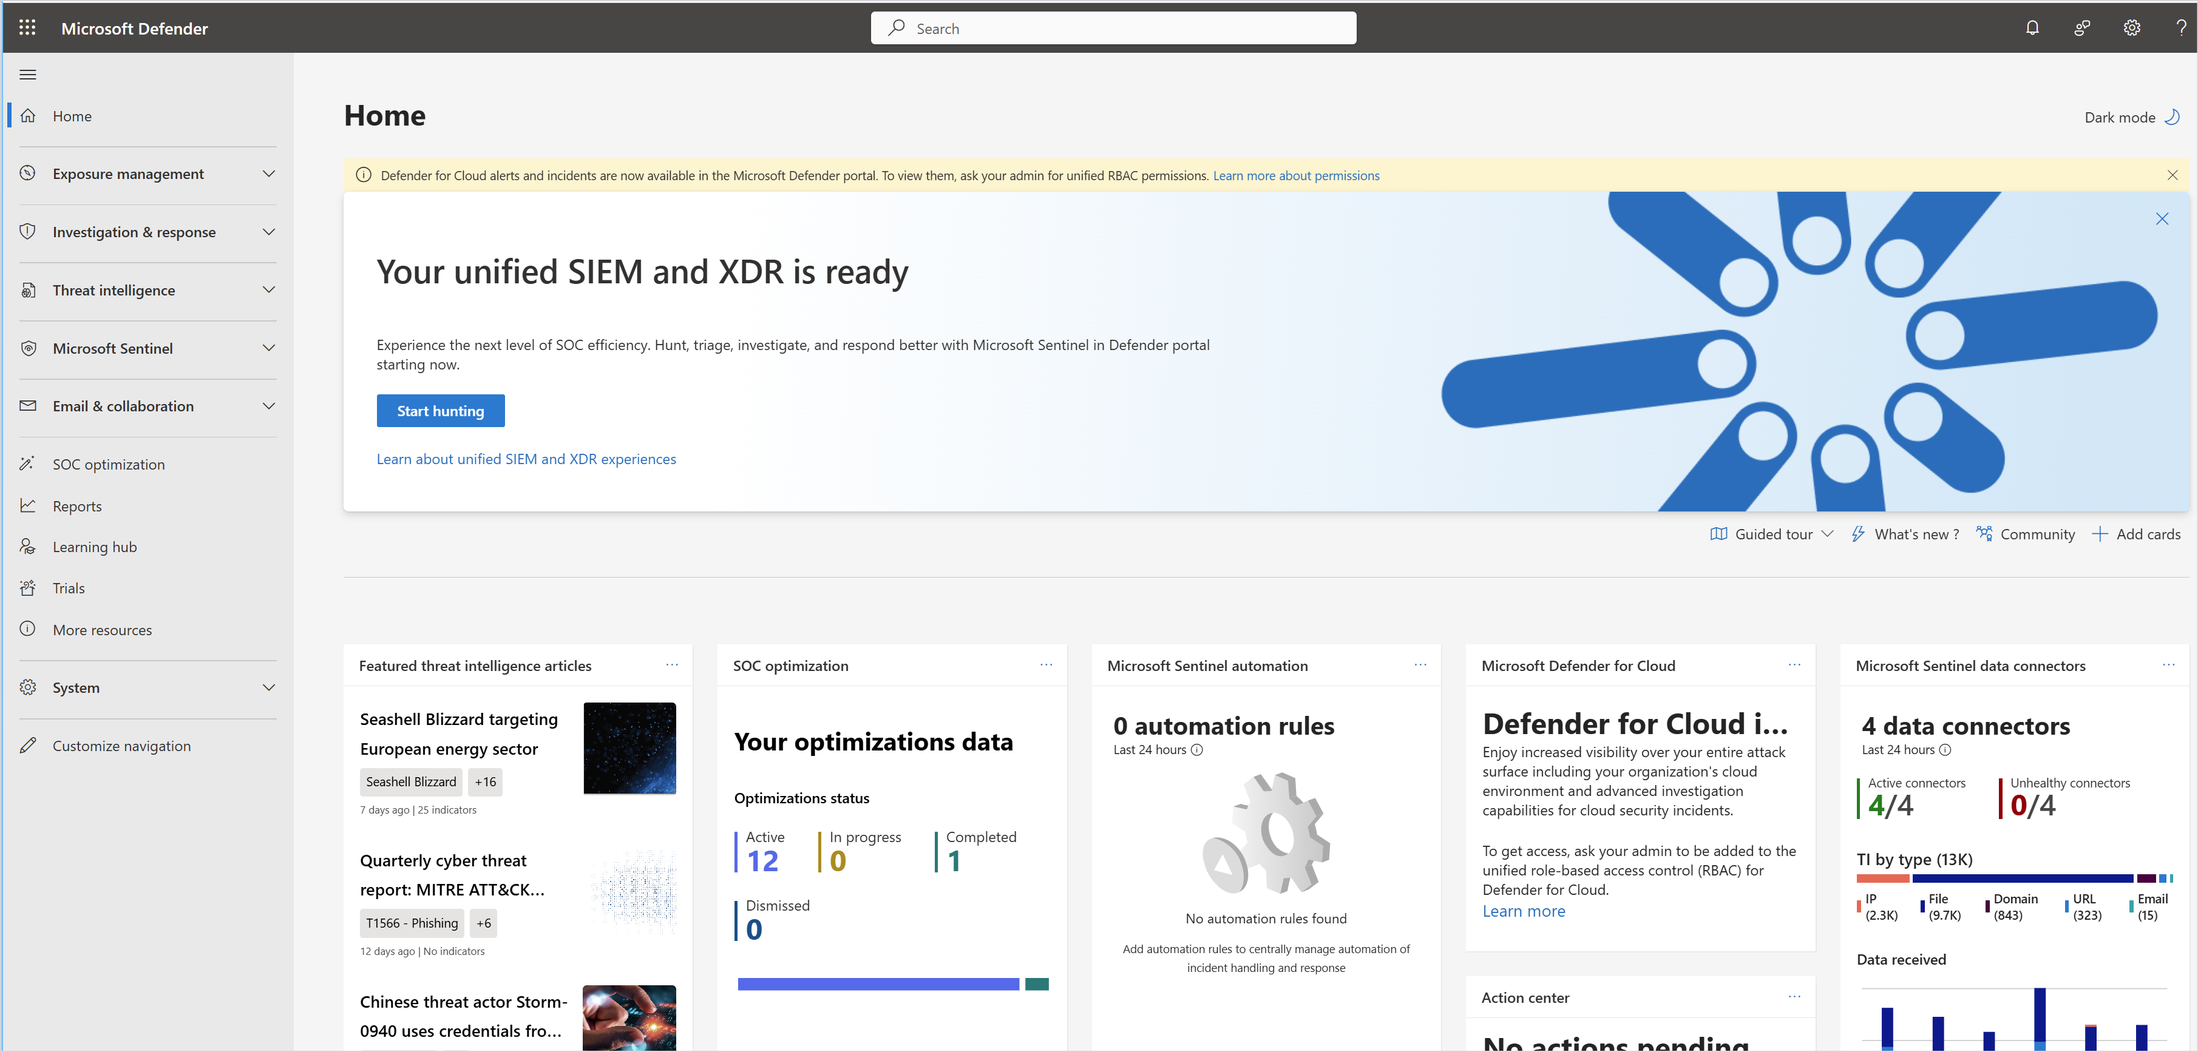
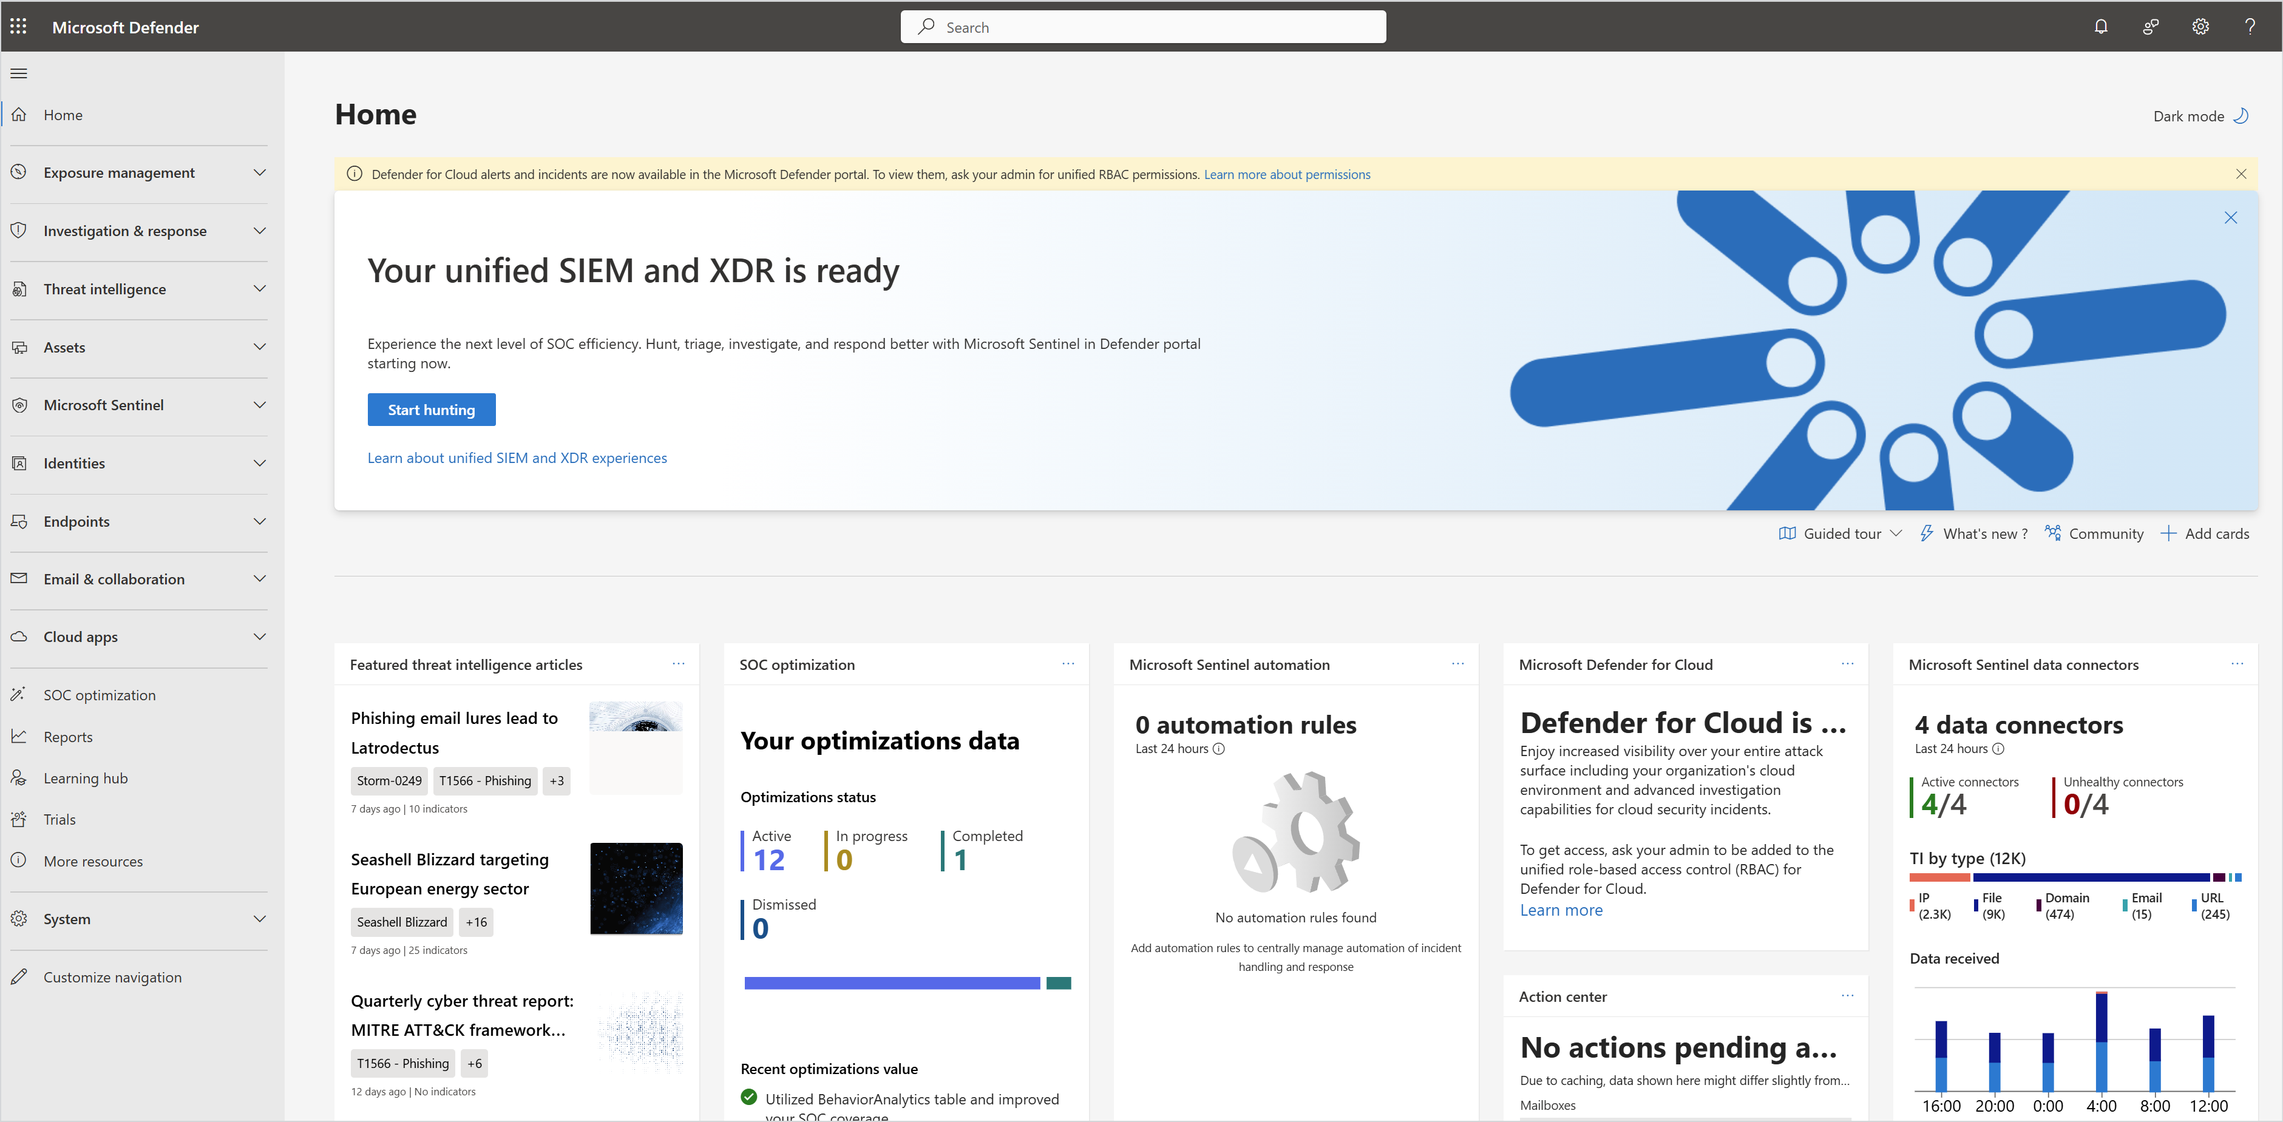
fixing merge conflict and updating articles

diff --git a/unified-secops-platform/overview-defender-portal.md b/unified-secops-platform/overview-defender-portal.md
@@ -24,15 +24,19 @@ The portal provides a single location to monitor, manage, and configure pre-brea
 - **Pre-breach security**: Visualize, monitor, assess, and improve asset security posture to reduce attack surfaces.
 - **Post-breach security**: Continuously monitor, detect, investigate, and respond to real-time and emerging cybersecurity threats against organizational assets.
 
+
+:::image type="content" source="media/overview-defender-portal/defender-portal.png" alt-text="Screenshot of Microsoft Defender portal landing page" lightbox="media/overview-defender-portal/defender-portal.png":::
+
+
 ## Portal services
 
 The Defender portal combines a number of Microsoft security services. 
 
 **Service** | **Details**
 --- | ---
-**[Microsoft Defender XDR](/defender-xdr/microsoft-365-defender)** | Defender XDR's suite of products protect assets and workloads against security threats.<br/><br/> Defender XDR integrates threat detection, prevention, investigation, and response across multiple resource types, including endpoint devices, identities, email, apps, and OT/IT resources.
-**[Microsoft Defender Threat Intelligence](/defender/threat-intelligence/what-is-microsoft-defender-threat-intelligence-defender-ti)** | Defender Threat Intelligence adds additional threat intelligence capabilities to those included in Defender XDR and Microsoft Sentinel.<br/><br/> The Defender Threat Intelligence platform gathers threat intelligence data from multiple sources, to provide a pool data and signals that security teams can use to effectively understand adversary activities, and to analyze and hunt for security threats.  
-**[Microsoft Security Exposure Management](/security-exposure-management/microsoft-security-exposure-management)** | Security Exposure Management provides single location for managing organizational security posture. It continuously discovers assets and workloads, and gathers discovered data into a unified view, making it simple to get a snapshot of security posture.<br/><br/>Security Exposure Management adds context to data, so that you can effectively visualize, query, and analyze attack surfaces to remediate organizational risk.
+**[Microsoft Defender XDR](/defender-xdr/microsoft-365-defender)** | Defender XDR's suite of services protect assets and workloads against security threats.<br/><br/> Defender XDR integrates threat detection, prevention, investigation, and response for organizational resources that include endpoint devices, identities, email, apps, and OT/IoT assets.
+**[Microsoft Defender Threat Intelligence](/defender/threat-intelligence/what-is-microsoft-defender-threat-intelligence-defender-ti)** | Defender Threat Intelligence adds additional features to the threat intelligence capabilities included in Defender XDR and Microsoft Sentinel.<br/><br/> The Defender Threat Intelligence platform gathers data from multiple sources to provide a pool of threat intelligence data and signals that security teams can use to effectively understand adversary activities, and analyze and hunt for security threats.  
+**[Microsoft Security Exposure Management](/security-exposure-management/microsoft-security-exposure-management)** | Security Exposure Management provides single location for managing organizational security posture. It continuously discovers assets and workloads, and gathers discovered data into a unified view of security posture.<br/><br/>Security Exposure Management adds context to gathered data, so that you can effectively visualize, query, and analyze attack surfaces to remediate organizational risk.
 **[Microsoft Defender for Cloud](/defender-xdr/microsoft-365-security-center-defender-cloud)** | Defender for Cloud improves multicloud and on-premises security posture, and protect cloud workloads against security threats.<br/><br/> Defender for Cloud is an Azure service, but it integrates into the Defender portal so that security teams can access Defender for Cloud alerts in the portal, providing a single location for security investigations.
 **[Microsoft Defender for IoT](/defender-for-iot/microsoft-defender-iot)** | Defender for IoT integrates into the Defender portal, extending Defender XDR protection to OT/Enteprise IoT environments.
 
@@ -54,28 +58,29 @@ Portal permissions are configured and managed on the Permissions page of the Def
 
 When you connect Microsoft Sentinel to the Defender portal, existing Azure RBAC permissions allow you to work with the Microsoft Sentinel features in the Defender portal for which you have access.  Continue to manage roles and permissions for your Microsoft Sentinel users from the Azure portal. Any Azure RBAC changes are reflected in the Defender portal.
 
-
-
 ## Working in the portal
 
 When you open the Defender portal, you see the services included in your subscriptions, and settings based on your portal permissions.
 
-:::image type="content" source="/defender/media/microsoft-365-defender-portal/notifications-panel.png" alt-text="Screenshot of the notifications icon in the Microsoft Defender portal." lightbox="/defender/media/microsoft-365-defender-portal/notifications-panel.png":::
-
-<Add new graphic>
+:::image type="content" source="media/home-page.png" alt-text="Screenshot of the Home page in the Microsoft Defender portal" lightbox="media/home-page.png":::
 
 **Feature** | **Details**
 --- | ---
 **Home page** | The Home page provides a summary of security state. Review active threats, resources at risk, and a summary of your all-up security posture. Use the dashboard as an up-to-date snapshot, and drill down to details as needed.
 **Portal notifications** | Portal notifications keep you up-to-date about important events and updates. A notification provides information about events, complete or in-progress actions, and relevant warnings and errors.<br/><br/> Notifications are sorted by their generated time in the notification panel, with the most recent ones displayed first. You can scroll through the list of notifications to see older ones.
 **Search** | Search across the portal. Results are categorized by sections related to your search terms.<br/><br/> Search also provides results from relevant links in the Microsoft Tech Community portal, relevant documentation in Microsoft Learn, navigation items within the portal, and a link where you can provide feedback. Search history is stored in your browser and is accessible for the next 30 days.
+**Guided tour** | Get a guided tour of managing endpoint security, or managing email and collaboration security.
+**What's new** | Links to the [Microsoft Defender XDR blog](https://techcommunity.microsoft.com/category/microsoftsecurityandcompliance/blog/microsoftthreatprotectionblog).
+**Community** | Links to the [security discussion spaces](https://techcommunity.microsoft.com/category/MicrosoftSecurityandCompliance) on Tech Community.
+**Add cards** | Customize the Home page, including adding a security news feed with the latest security stories.
+
 
 
 ## Exposure management
 
 In **Exposure management**, review the overall state of your security posture, exposure, and risk. 
 
-<Add graphic>
+:::image type="content" source="media/exposure-management-page.png" alt-text="Screenshot of the Exposure Management page in the Microsoft Defender portal" lightbox="media/exposure-management-page.png":::
 
 **Feature** | **Details**
 --- | ---
@@ -88,11 +93,12 @@ In **Exposure management**, review the overall state of your security posture, e
 
 ## Investigation and response 
 
-The Defender portal provides a single location for investigating and responding to threats across the enterprise.
+The Defender portal provides a single location for investigating incidents and responding to threats across the enterprise.
 
-<Add graphic>
 
 ### Investigate incidents and alerts
+
+:::image type="content" source="media/incidents-page.png" alt-text="Screenshot of the Incidents page in the Microsoft Defender portal" lightbox="media/incidents-page.png":::
 
 **Feature** | **Details**
 --- | ---
@@ -102,6 +108,8 @@ The Defender portal provides a single location for investigating and responding 
 ### Hunt for threats
 
 Hunting allows you to proactively inspect security events and data to locate known and potential threats. 
+
+:::image type="content" source="media/advanced-hunting-page.png" alt-text="Screenshot of the Advanted Hunting page in the Microsoft Defender portal" lightbox="media/advanced-hunting-page.png":::
 
 **Feature** | **Details**
 --- | ---
@@ -113,12 +121,16 @@ Hunting allows you to proactively inspect security events and data to locate kno
 
 Threat protection features result in remediation actions. Actions might be automated and require or not require approval. Remediation actions might also be manual. Actions that need approval or manual intervention are available in the Action center.
 
+:::image type="content" source="media/action-center-page.png" alt-text="Screenshot of the Action Center page in the Microsoft Defender portal" lightbox="media/action-center-page.png":::
+
 **Feature** | **Details**
 --- | ---
 **Action center** | Review the list of actions that need attention. Approve or reject actions one at a time, or in bulk. You can review action history to track remediation.
 **Submissions** | Submit suspect spam, URLs, email issues and more to Microsoft.
 
 ## Partner catalog
+
+:::image type="content" source="media/technology-partners-page.png" alt-text="Screenshot of the Technology Partners page in the Microsoft Defender portal" lightbox="media/technology-partners-page.png":::
 
 The Defender portal has a couple of kinds of partner integration:
 
@@ -127,7 +139,9 @@ The Defender portal has a couple of kinds of partner integration:
 
 ## Threat intelligence
 
-In the Defender portal, you can get direct visibility into active and ongoing threat campaigns, and access threat intelligence provided by Defender Threat Intelligence. 
+In the Defender portal, you can get direct visibility into active and ongoing threat campaigns, and access threat intelligence provided by Defender Threat Intelligence.
+
+:::image type="content" source="media/threat-analytics-page.png" alt-text="Screenshot of the Threat Analytics page in the Microsoft Defender portal" lightbox="media/threat-analytics-page.png":::
 
 **Feature** | **Details**
 --- | ---
@@ -140,41 +154,95 @@ In the Defender portal, you can get direct visibility into active and ongoing th
 
 The Assets page provides a unified view of all your discovered and protected assets, including devices, users, mailboxes, and apps. You can see the total number of assets of each types, and drill down into specific asset details.
 
+:::image type="content" source="media/device-inventory-page.png" alt-text="Screenshot of the Device Inventory page in the Microsoft Defender portal" lightbox="media/device-inventory-page.png":::
+
 
 **Feature** | **Details**
 --- | ---
 [**Devices**](/defender-xdr/mto-tenant-devices) | On the Tenants page, review each tenant you have access to. Tenant information includes the number of devices and device types, devices that are highly exposed, and devices that aren't yet onboarded to the Defender portal.<br/><br/> On the Device Inventory page, get an overview of discovered devices in each tenant you have access to. Review devices by type, understand which devices are high risk or critical.<br/><br/> You can group devices logically by adding tags for context, exclude devices you don't want to assess, or start an automated investigation for devices.
-**Identities** | On the [Identities (ITDR dashboard)](/defender-for-identity/dashboard), you can get insights and real-time data about identity threat detection and response (ITDR). The dashboard includes a summary of ITDR health, and information about threats such as unauthorized access, account compromise, insider threats, and abnormal activity. Proactively monitor and manage identity-related risks from the dashboard.<br/><br/> If there's a problem with a Defender for Identity workspace, it's raised as an issue on the [Health issues page](/defender-for-identity/health-alerts). Drill down on specific issues to address, suppress, or close as needed.<br/><br/> Tools - TBD
+**Identities** | Get a summary of user and account inventory.
 
 
 ## Microsoft Sentinel
 
 Onboarding Microsoft Sentinel to Defender XDR in the Defender portal creates a unified platofrm that brings together full Microsoft Sentinel and Defender XDR capabilities.
 
+:::image type="content" source="media/sentinel-search-page.png" alt-text="Screenshot of the Sentinel Search page in the Microsoft Defender portal" lightbox="media/sentinel-search-page.png":::
+
 **Feature** | **Details**
 --- | ---
-[**Search**]() | 
+**Search** | Search across logs, and access past searches.
 **Threat management** | Visualize and monitor connected data with [workbooks](/azure/sentinel/monitor-your-data?tabs=defender-portal).<br/><br/>[Investigate incidents](/azure/sentinel/investigate-incidents) and [classify alerts with entities](/azure/sentinel/customize-entity-activities?tabs=defender).<br/><br/>Proactively [hunt for threats](/azure/sentinel/hunts) and [use notebooks](/azure/sentinel/hunting?tabs=azure-portal#notebooks-to-power-investigations) to power investigations.<br/><br/> [Integrate threat intelligence](/azure/sentinel/threat-intelligence-integration) into threat detection, and [use the MITRE ATT&CK framework](/azure/sentinel/mitre-coverage) in analytics and incidents.
 **Content management** | Use the [Content hub](/azure/sentinel/sentinel-solutions#discover-and-manage-microsoft-sentinel-content) to discover and install out-of-the-box (OOTB) content.<br/><br/> Use [Microsoft Sentinel repositories](/azure/sentinel/ci-cd-custom-content) to connect to external source systems for continuous integration and delivery (CI/CD) rather than manually deploying and updating custom content.<br/><br/>Community - TBD
 **Configuration** | [Use data connectors](/azure/sentinel/best-practices-data) to ingest data.<br/><br/>[Create watchlists](/azure/sentinel/watchlists) to correlate and organize data sources.<br/><br/>[Set up analytics rules](/azure/sentinel/threat-detection) to query and analyze collected data.<br/><br/> [Automate](/azure/sentinel/automation/automation#automation-with-the-unified-security-operations-platform) threat responses.<br/><br/> Settings - TBD
 
 ## Identities
 
+In the Identities section of the Defender portal, monitor user and account health, and proactively monitor and manage identity-related risks.
+
+:::image type="content" source="media/identity-dashboard.png" alt-text="Screenshot of the Identity Dashboard page in the Microsoft Defender portal" lightbox="media/identity-dashboard.png":::
+
+**ITDR dashboard** | On the [Identity threat detection and response (ITDR) dashboard](/defender-for-identity/dashboard), you can get insights and real-time data about the security state of users and accounts.<br/><br/> The dashboard includes information about Defender for Identity deployment, information about highly privileged identities, and information about identity-related incidents. Drill down into information about different types of users.<br/><br/> If there's a problem with a Defender for Identity workspace, it's raised as an issue on the [Health issues page](/defender-for-identity/health-alerts).
+**Health issues** | Any Defender for Identity global or sensor-based health issues are displayed on this page.
+**Tools** | You can access common tools to help you manage Defender for Identity on this page.
+
 ## Endpoints
+
+In the Endpoints section of the portal, monitor and manage asset vulnerabilities with Microsoft Defender Vulnerability Management.
+
+:::image type="content" source="media/vulnerability-management-dashboard.png" alt-text="Screenshot of the Microsoft Defender Vulnerability Management dashboard in the Microsoft Defender portal" lightbox="media/vulnerability-management-dashboard.png":::
+
+**Vulnerability management** | Review exposure and vulnerability state in the dashboard. Get recommendations based on vulnerability assessment of devices, and remediate vulnerabilities.<br/><br/> Review your organization's software inventory, including vulnerable components, certificates, and hardware.<br/><br/> Review CVEs and security advisories.<br/><br/> Review the event timeline for vulnerability impacts.<br/><br/> Use security baseline profiles to assess devices against security benchmarks.
+**Connected applications** | Get information about the [Microsoft Entra applications connected to Defender for Endpoint](/defender-endpoint/connected-applications).
+**API explorer** | [Use the API explorer](/defender-endpoint/api/api-explorer) to construct and run API queries, test, and sent requests for available Defender for Endpoint API endpoints. 
+
 
 ## Email and collaboration
 
+Monitor, investigate, and manage security threats and responses to email and collaboration apps. 
+
+
+:::image type="content" source="media/email-investigations.png" alt-text="Screenshot of the Email Investigations page in the Microsoft Defender portal" lightbox="media/email-investigations.png":::
+
+**Investigations** | Run and review automated investigations.
+**Explorer** | Hunt, investigate, and explore threats to emails and documents. Drill down into specific types of threats, including malware, phishing, and campaigns.
+**Review** | Manage quarantined items and restricted senders.
+**Campaigns** | Analyze coordinated attacks against your organization.
+**Threat tracker** | Review saved and tracked queries, and follow trending campaigns.
+**Policies and rules** | Configure and manage security policies to protect against threats, and receive activity alerts.
+
+
+
 ## Cloud apps
 
-## Operational technology
+In this section, review security to minimize risk and exposure to cloud apps using the Defender for Cloud Apps service.
+
+::image type="content" source="media/cloud-apps-sample-report.png" alt-text="Screenshot of a Cloud Apps sample report in the Microsoft Defender portal" lightbox="media/cloud-apps-sample-report.png":::
+
+**Cloud discovery** | Get a overview of cloud app security with discovery reports. Review a sample report, and create new reports.
+**Cloud app catalog** | Get an overview of well-known cloud apps and their associated risk. You can sanction and unsanction apps as needed.
+**OAuth apps** | Get visibility in OAuth apps. Review apps, and filter settings to drill down.
+**Activity log** | Review connected app activity by cloud name, IP address, and related devices.
+**Governance log** | Revuew governance tasks.
+**Policies** | Configure security policies for cloud apps. 
+
 
 ## SOC optimization
+
+:::image type="content" source="media/soc-optimization-page.png" alt-text="Screenshot of the SOC Optimization page in the Microsoft Defender portal" lightbox="media/soc-optimization-page.png":::
 
 ## Reports
 
 In the portal, you can start with a general security report, and branch into specific reports. Report links are dynamically generated based on  your configuration.
 
-## Learning hub
+:::image type="content" source="media/reports-page.png" alt-text="Screenshot of the Reports page in the Microsoft Defender portal" lightbox="media/reports-page.png":::
+
+## Trials
+
+Review available trial solutions, design to help you make decisions about upgrades and purchases.
+
+:::image type="content" source="media/trials-page.png" alt-text="Screenshot of the  page iMicrosoft Security Trials page in the Microsoft Defender portal" lightbox="media/trials-page.png":::
+
 
 
 
